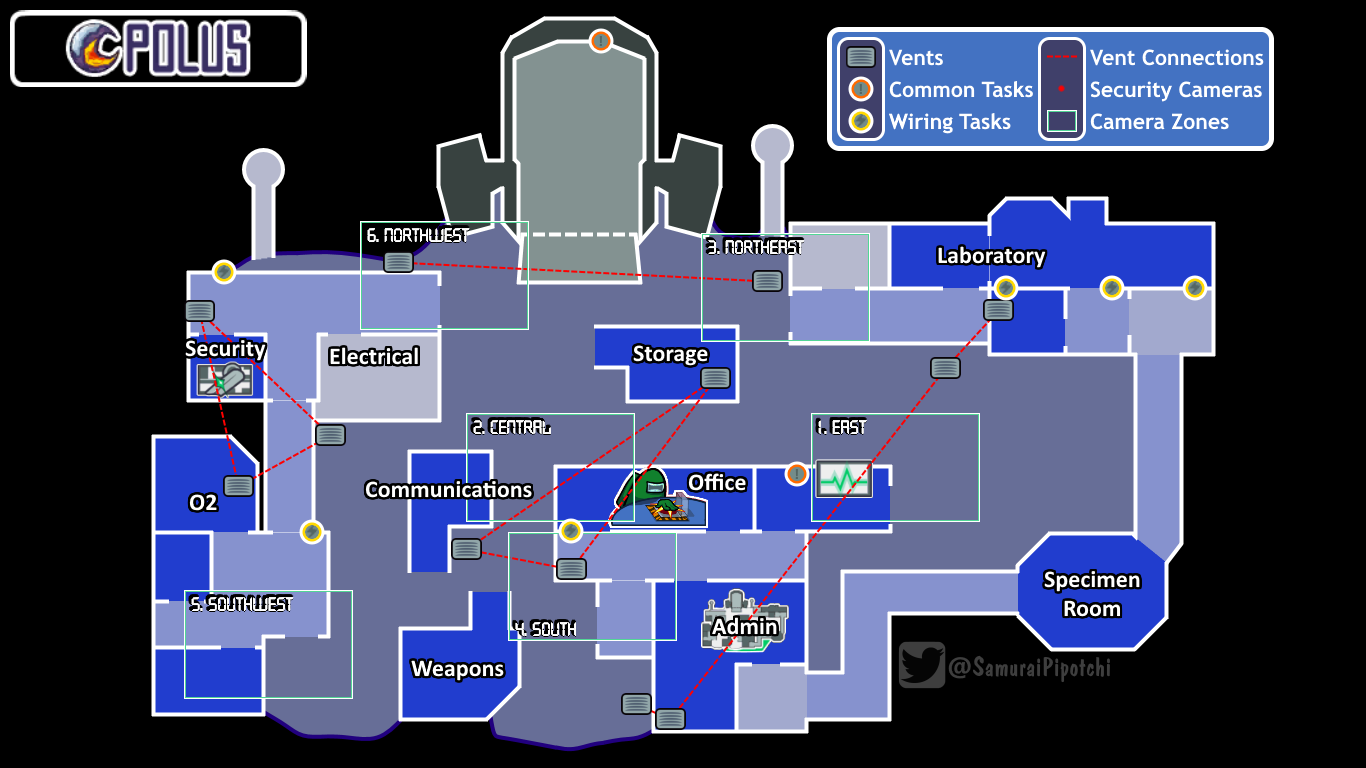
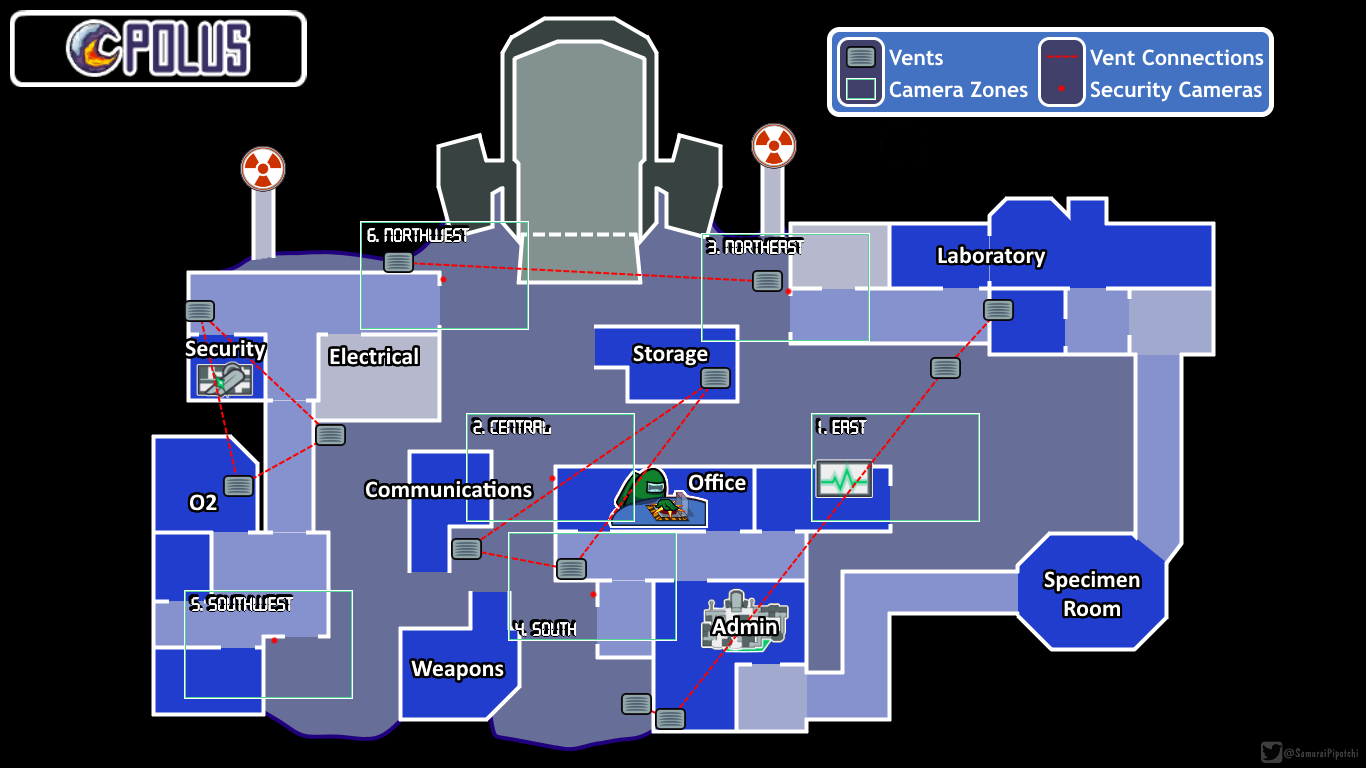
Update map assets; Add support for map versions

diff --git a/discord/map.go b/discord/map.go
@@ -4,15 +4,25 @@ import (
 	"fmt"
 	"strings"
 	"errors"
+	"net/url"
+	"log"
 )
 
 type MapType struct {
-    Name string
+	Name string
+	MapImage MapImage
+}
+
+type MapImage struct {
+	Simple string
+	Detailed string
 }
 
 func (m *MapType) String() string {
     return m.Name
 }
+
+const BaseMapURL = "https://github.com/ShawnHardwick/automuteus/blob/feature/map_command/assets/maps/"
 
 func NewMapFromName(name string) (*MapType, error) {
     switch strings.ToLower(name) {
@@ -24,7 +34,28 @@ func NewMapFromName(name string) (*MapType, error) {
 		name = "polus"
 	default:
 		return nil, errors.New(fmt.Sprintf("Invalid map name: %s", name))
-    }
-	return &MapType{Name: name}, nil
+	}
+
+	base, err := url.Parse(BaseMapURL)
+    if err != nil {
+        log.Println(err)
+	}
+
+	simpleURL, err := base.Parse(name + ".png?raw=true")
+	if err != nil {
+        log.Println(err)
+	}
+
+	detailedURL, err := base.Parse(name + "_detailed.png?raw=true")
+	if err != nil {
+        log.Println(err)
+	}
+
+	mapImage := MapImage{
+		Simple:   simpleURL.String(),
+		Detailed: detailedURL.String(),
+	}
+
+	return &MapType{Name: name, MapImage: mapImage}, nil
 }
 

diff --git a/discord/commands.go b/discord/commands.go
@@ -703,7 +703,7 @@ func (bot *Bot) HandleCommand(isAdmin, isPermissioned bool, sett *storage.GuildS
 				embed := ConstructEmbedForCommand(prefix, cmd, sett)
 				s.ChannelMessageSendEmbed(m.ChannelID, embed)
 			} else {
-				Map, err := NewMapFromName(args[1])
+				mapItem, err := NewMapFromName(args[1])
 				if err != nil {
 					log.Println(err)
 					s.ChannelMessageSend(m.ChannelID, sett.LocalizeMessage(&i18n.Message{
@@ -712,8 +712,17 @@ func (bot *Bot) HandleCommand(isAdmin, isPermissioned bool, sett *storage.GuildS
 					}))
 					break
 				} else {
-					log.Println(Map)
-					s.ChannelMessageSend(m.ChannelID, "https://i.imgur.com/3B0WWe7.png")
+					if len(args[2:]) > 0 {
+						if args[2] == "simple" {
+							s.ChannelMessageSend(m.ChannelID, mapItem.MapImage.Simple)
+						} else if args[2] == "detailed" {
+							s.ChannelMessageSend(m.ChannelID, mapItem.MapImage.Detailed)
+						} else {
+							log.Println("Invalid option")
+						}
+					} else {
+						log.Println("Using guild setting")
+					}
 				}
 			}
 			break
